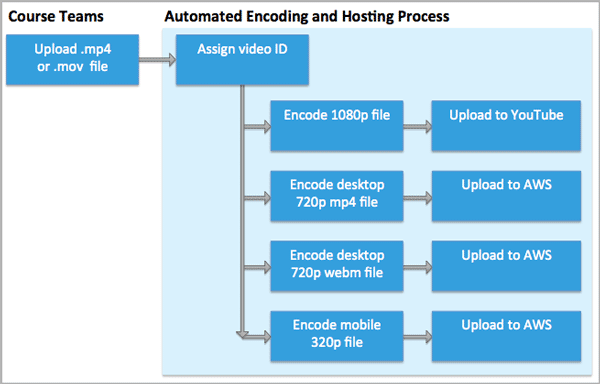
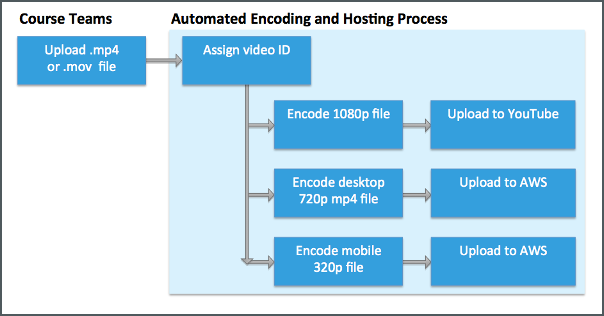
Fix for https://openedx.atlassian.net/browse/DOC-2358. Also adding my name to the edx-documentation AUTHORS file.

diff --git a/en_us/course_authors/source/video/video_uploads.rst b/en_us/course_authors/source/video/video_uploads.rst
@@ -8,14 +8,14 @@ After a video administrator works with the edX media team to complete
 :ref:`preliminary setup<Video Getting Started>` for the entire institution,
 individual course teams can begin to upload video files for their courses in
 Studio. This section describes the specifications met by successful video
-files, the steps to upload the files, and how you monitor video processing 
+files, the steps to upload the files, and how you monitor video processing
 at edX.
 
-.. removed "how course teams enable the video upload process in Studio, " 
+.. removed "how course teams enable the video upload process in Studio, "
 
-* :ref:`Specifications for Successful Video Files` 
+* :ref:`Specifications for Successful Video Files`
 
-* :ref:`Upload Video Files`  
+* :ref:`Upload Video Files`
 
 * :ref:`Monitor Video Processing`
 
@@ -81,7 +81,7 @@ For best results, your video files should have these compression specifications.
    * - Size
      - 5GB maximum
 
-.. note:: Typically you export at the same frame rate that was used when you 
+.. note:: Typically you export at the same frame rate that was used when you
  created the media file. For example, if you create the file in a country that
  uses the PAL system, you export at 25 fps instead of the NTSC standard of
  29.97 fps.
@@ -122,7 +122,7 @@ parties identify and track video files over time.
    identifier for your course. The edX media team defines a unique video
    identifier for each course.
 
-.. #. Open the course in Studio. 
+.. #. Open the course in Studio.
 
 .. #. Select **Settings**, then **Advanced Settings**.
 
@@ -135,7 +135,7 @@ parties identify and track video files over time.
 
 .. #. Click **Save Changes**. Studio reformats the name:value pair you just
    entered to indent it on a new line.
-   
+
  .. image:: Images/Enable_video_upload.png
   :alt: Video Upload Credentials field with the course_video_upload_token
       policy key and a token value
@@ -148,14 +148,14 @@ parties identify and track video files over time.
 .. _Upload Video Files:
 
 ***************************
-Upload Video Files 
+Upload Video Files
 ***************************
 
 Before you can upload video files, the video upload feature must be enabled
 for the course. Your video administrator coordinates this task with the edX
 media team. See :ref:`Create YouTube Channels`.
 
-#. Open the course in Studio. 
+#. Open the course in Studio.
 
 #. Select **Content**, then **Video Uploads**.
 
@@ -179,14 +179,14 @@ is successful. If the status changes to Failed, the file upload process is not
 successful. You can monitor file progress on the **Video Uploads** page or
 download a report.
 
-.. _Monitor Video Processing: 
+.. _Monitor Video Processing:
 
 ***************************
 Monitor Video Processing
 ***************************
 
 After your video files successfully reach the edX servers, automated
-processing begins. 
+processing begins.
 
 .. note:: Automated processing takes 24 hours to complete.
 
@@ -210,7 +210,7 @@ The encoding and hosting process assigns these statuses to video files.
   processing. See :ref:`Specifications for Successful Video Files`. Then try
   uploading the file (or its replacement) again.
 
-* **In Progress** files are undergoing processing to create additional file 
+* **In Progress** files are undergoing processing to create additional file
   formats or waiting for successful transfer to the host sites.
 
 * **Ready** files are ready for inclusion in your course and for learners to
@@ -237,19 +237,24 @@ problem. Inform your edX Partner Manager if these statuses appear.
 Reporting Video Statuses
 ================================
 
-To report the status of the encoding and hosting process of every video file
-that you upload, as well as the assigned video IDs, you can download a CSV
-file.
+View detailed information about the video files that you upload in the
+available encodings report. The available encodings report includes the status
+of the encoding and hosting process for each video file that you upload, the
+identifier for the video, and the URLs for each encoding format. The available
+encodings report is a comma separated values (.csv) file that you can view in a
+spreadsheet application or text editor.
 
-#. Open the course in Studio. 
+To download the available encodings report, follow these steps.
+
+#. Open the course in Studio.
 
 #. Select **Content**, then **Video Uploads**.
 
 #. Click **Download available encodings (.csv)**.
 
-#. Use a spreadsheet application or text editor to open the CSV file.
+#. Use a spreadsheet application or text editor to open the .csv file.
 
-The CSV file reports data in these columns for all of the files you upload.
+The .csv file includes the following columns.
 
 * The file **Name**.
 
@@ -266,28 +271,34 @@ The CSV file reports data in these columns for all of the files you upload.
 * The **Status** of the encoding and hosting process for the file. See
   :ref:`Video Processing Statuses`.
 
-The CSV file also includes a column for each of the formats and host sites
-that are the result of the edX encoding and hosting process. The CSV file
-includes data in these columns only after each format is successfully
-generated and delivered to its destination.
+The .csv file also includes a column for each of the formats that are the
+result of the edX encoding and hosting process. These columns include the URL
+of a host site only after the format is successfully generated and delivered to
+its destination.
 
 * **desktop_mp4 URL**: The AWS location of a 720p resolution video file in mp4
   format. This file is delivered to learners who do not have access to YouTube
-  and view course videos with an mp4 player.
+  and view course videos with mp4 players.
 
 * **desktop_webm URL**: The AWS location of a 720p resolution video file in
   webm format. This file is delivered to learners who do not have access to
-  YouTube and view course videos with a webm player.
+  YouTube and view course videos with webm players.
+
+  The encoding and hosting process no longer creates webm versions of the video
+  files that you upload. Modern web browsers do not require the webm format.
+  The .csv file includes the **desktop_webm URL** column to show the webm URLs
+  for videos uploaded before this change. When you upload a new video, the
+  column will remain empty, even after the encoding and hosting process is
+  complete.
 
 * **mobile_low URL**: The AWS location of a 320p resolution video file. This
-  file is delivered to learners who download and view course videos on a
-  mobile device.
+  file is delivered to learners who download and view course videos on mobile
+  devices.
 
 * **youtube URL**: The YouTube location of a 1080p resolution video. By
   default, the edX video player delivers this video.
 
-The edX encoding and hosting process produces these alternatives to ensure
-optimal playback quality for your learners. 
+The edX encoding and hosting process produces these alternative formats to ensure optimal playback quality for your learners.
 
 
 .. _Creating Videos: https://courses.edx.org/courses/edX/edX101/2014/courseware/c2a1714627a945afaceabdfb651088cf/9dd6e5fdf64b49a89feac208ab544760/
